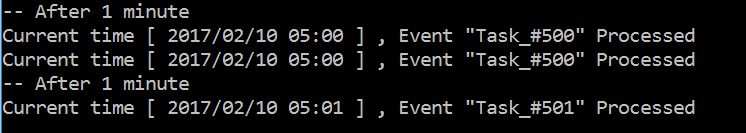
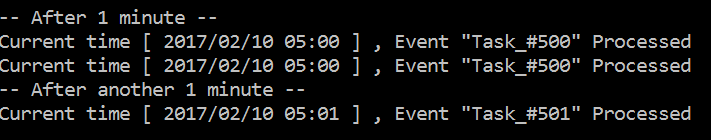
Updated Print format

Changed region(s): [[0.0, 0.2105, 0.9902, 0.6917], [0.0, 0.7218, 0.9902, 0.9023], [0.0, 0.0301, 0.3094, 0.1805]]

diff --git a/queueProcess.py b/queueProcess.py
@@ -15,7 +15,7 @@ def main(path_to_csv, starttime):
 
     heapq = HeapPriorityQueue(list_key_value)
     prev_time = start_datetime
-
+    first_time = True
     while heapq:
         date_time, event = heapq.remove_min()
         date = date_time[0].strftime('%Y/%m/%d')
@@ -25,7 +25,11 @@ def main(path_to_csv, starttime):
             print("Current time [ {0} ] , Event \"{1}\" Processed".format(date_time_str, event))
         else:
             minute_difference = int((date_time[0] - prev_time).total_seconds()//60)
-            print("-- After {} minute".format(str(minute_difference)))
+            if first_time:
+                print("-- After {} minute --".format(str(minute_difference)))
+                first_time = False
+            else:
+                print("-- After another {} minute --".format(str(minute_difference)))
             print("Current time [ {0} ] , Event \"{1}\" Processed".format(date_time_str, event))
             prev_time = date_time[0]
 
